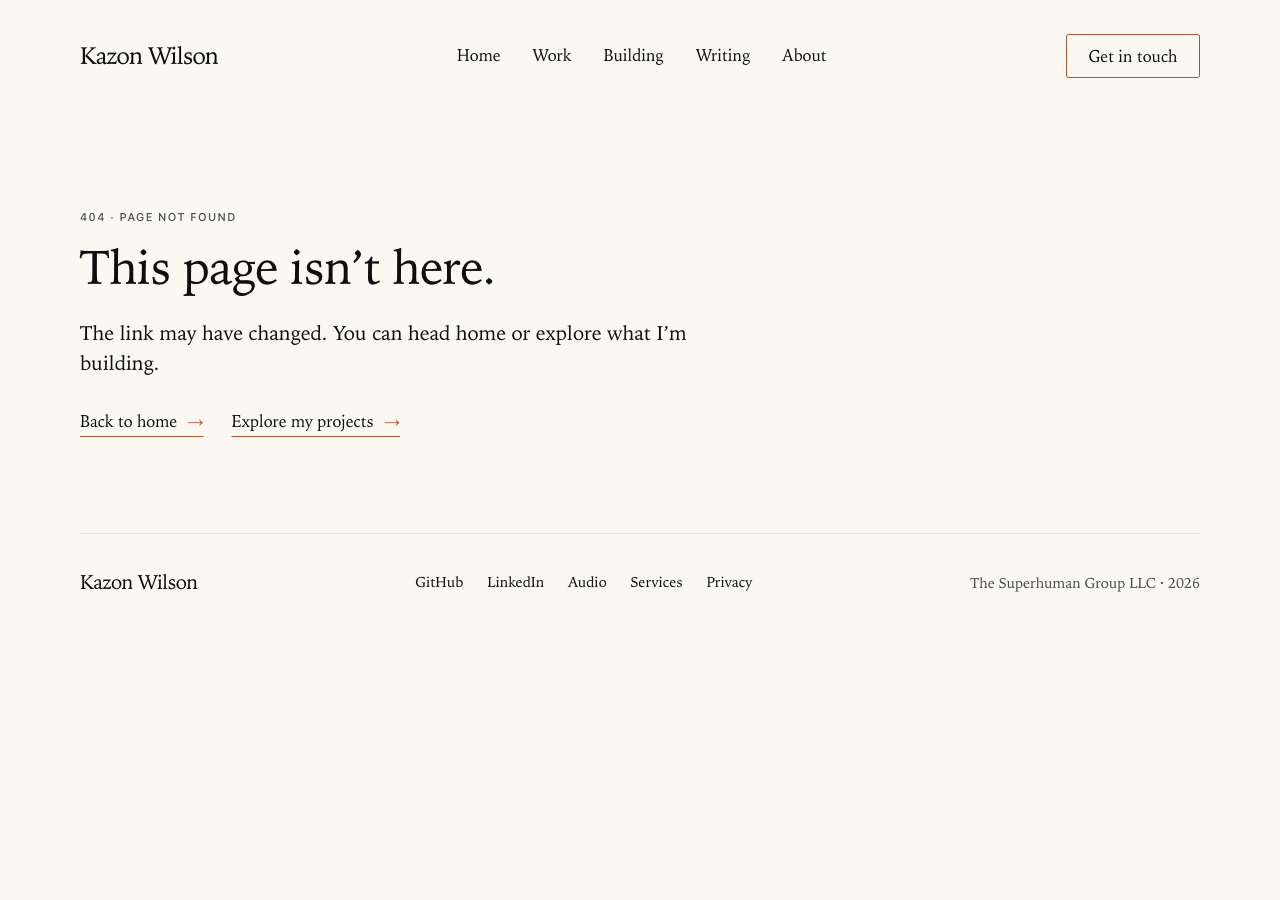
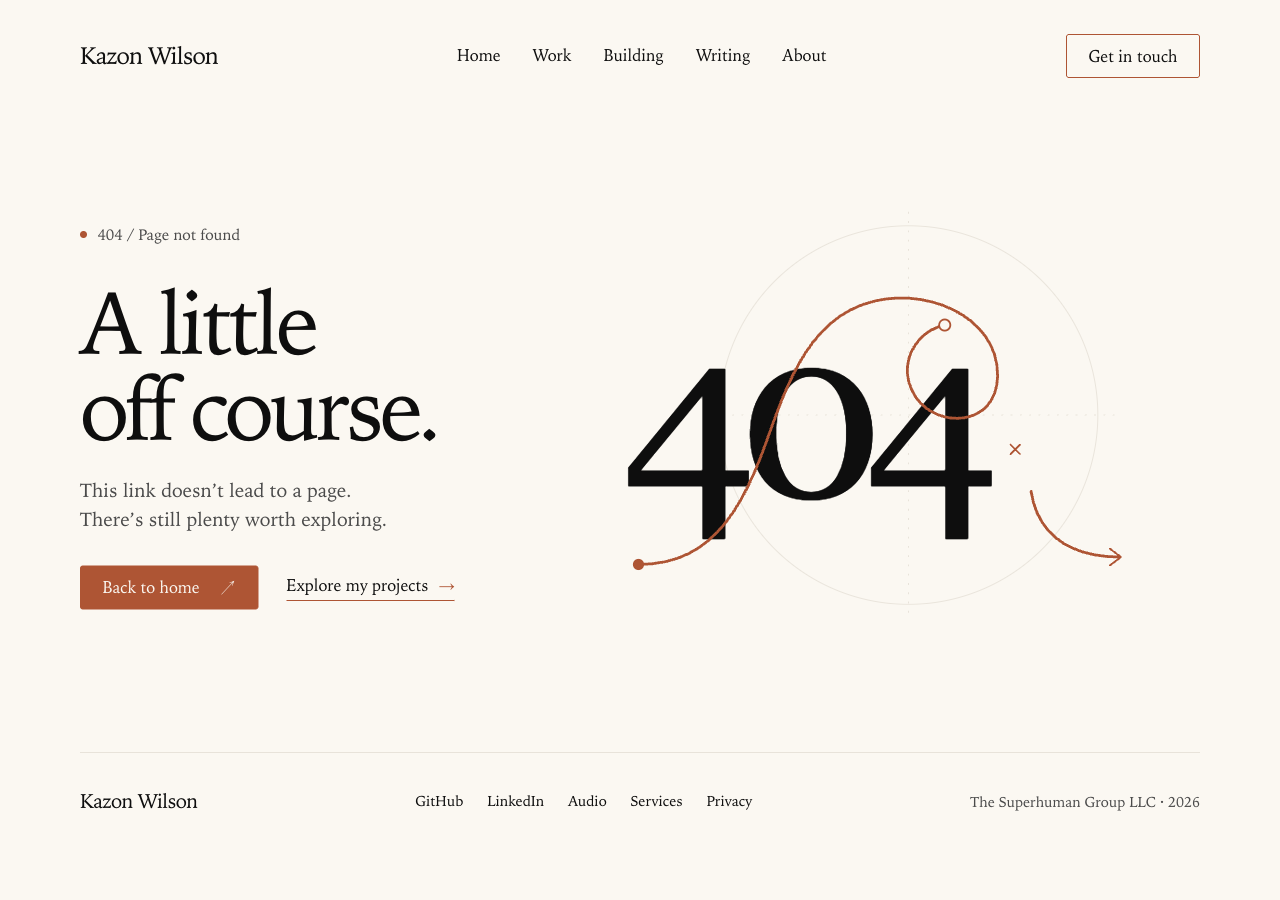
Give the 404 page a distinctive route illustration and layout

diff --git a/docs/asset-reviews/404-route-illustration.md b/docs/asset-reviews/404-route-illustration.md
@@ -1,0 +1,13 @@
+# Asset: 404 route illustration
+
+- Purpose and placement: decorative route motif around the error code on the missing-page screen. Symbolic, not a map or product evidence.
+- Final source: inline SVG in `src/pages/404.astro`, viewBox 640 × 500; scales without a separate asset request.
+- Reference basis: original simple vector paths and typographic error code. Existing site colors and serif typography retained.
+- Reviewer: Codex, September 15, 2026.
+- Detail inspection: pass. Continuous deliberate curves, clear open endpoint, and deliberate route gap. No raster generation artifacts.
+- Physical/reference accuracy: not applicable; abstract route illustration.
+- Desktop/mobile inspection: pass at 1280 × 900 and 390 × 844. Text and controls stay separate from decoration; art stacks above content on mobile.
+- Accessibility/optimization: decorative SVG container is aria-hidden; real HTML states 404 / Page not found. No animation, additional client script, or image request. Recovery links remain absolute for alternate-host compatibility.
+- Outcome: ready for visual review; not deployed.
+
[1 lines of base64/hex data omitted]
